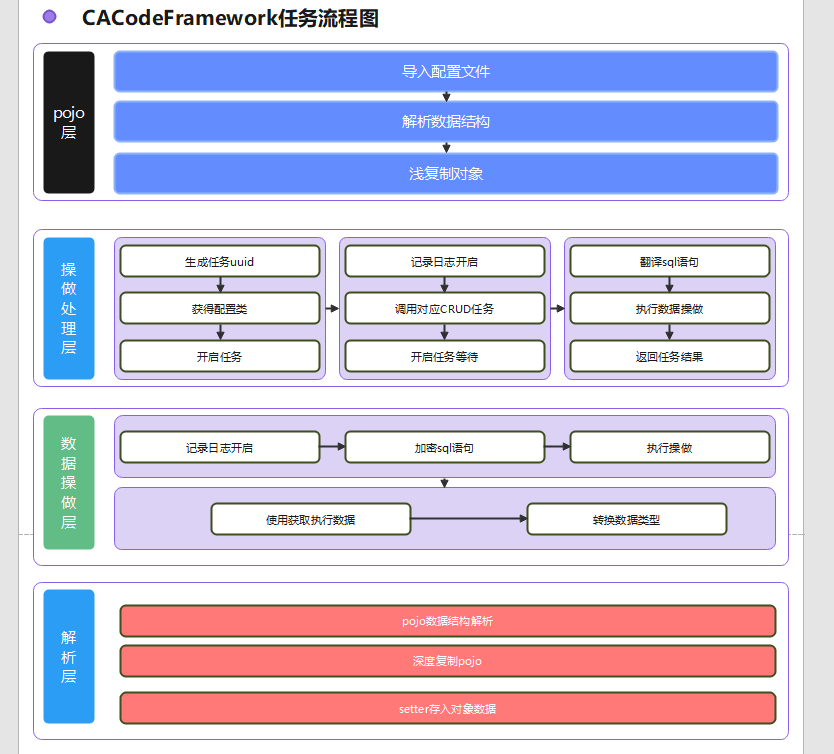
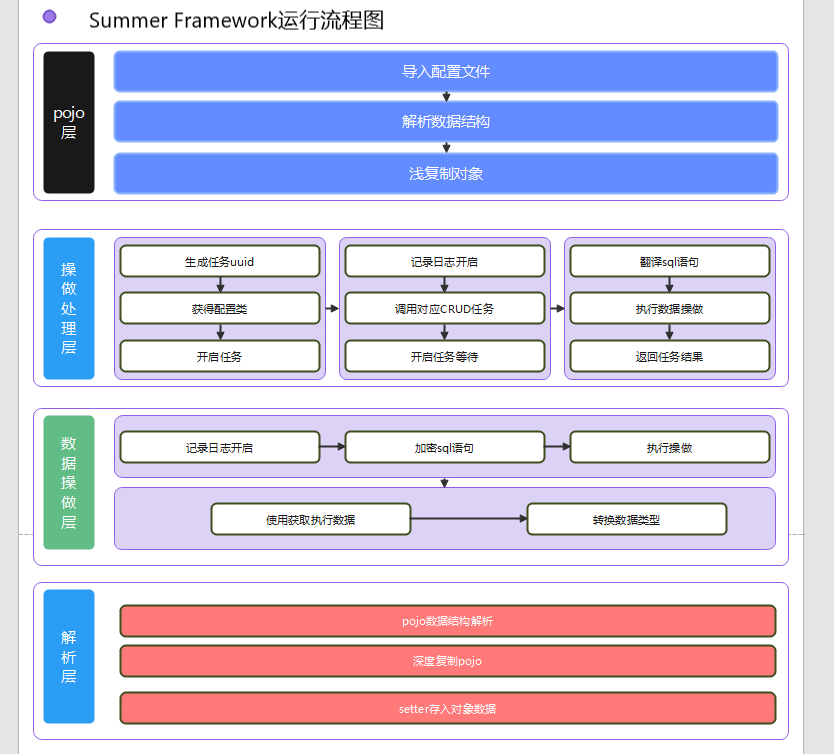
updateRRADME.md

Changed region(s): [[0.0935, 0.0, 0.4676, 0.061]]

diff --git a/README.md b/README.md
@@ -1,25 +1,52 @@
-<h1 align="center">Welcome to CACodeFramework 👋</h1>
-<p>
+<p align="center">
+<img width="50%" src="https://summer-publiced.oss-cn-hangzhou.aliyuncs.com/logos/summer_tr.png"/>
+</p>
+<h1 align="center">Welcome to Summer Framework 👋</h1>
+<p align="center">
   <img alt="Version" src="https://img.shields.io/badge/version-Test--1.0.0-blue" />
   <img src="https://img.shields.io/badge/python-%3E%3D%203.6-blue.svg" />
   <a href="https://github.com/Nirongxu/vue-xuAdmin/blob/master/README.md">
     <img alt="Documentation" src="https://img.shields.io/badge/documentation-yes-brightgreen.svg" target="_blank" />
   </a>
   <a href="https://github.com/Nirongxu/vue-xuAdmin/blob/master/LICENSE">
-    <img alt="License: MIT" src="https://img.shields.io/badge/License-MIT-yellow.svg" target="_blank" />
+    <img alt="License: MIT" src="https://img.shields.io/badge/License-Apache-yellow.svg" target="_blank" />
   </a>
 </p>
 
 # 安装
 
-> pip命令：pip install CACodeFramework
+> pip命令：pip install summer-framework
 
 ## 先决条件
 
-- python >=3.6
-
+> python >=3.6  
+> 基础的sql知识  
 > 教程文档地址：http://doc.cacode.ren
 
-# CACode
+# 它是如何运作的
+
+![](./imgs/lct.png)
+
+# 适用场景
+
+```text
+经过测试，目前稳定运行于Django、Flask、FastApi、web2py。支持非任何架构的原生python，
+可通过任何形式使用。不局限于已创建的对象，可动态加载数据库和数据表
+```
+
+# 优点
+
+```text
+适配市面上所有基于DB-API2规范的数据库创建者,MySql承受100万次插入最快可达19秒。
+内部代码使用中文注释，阅读源码不费力
+```
+
+# 内置
+
+```text
+内置json解析器和数据库连接池，带有缓存机制，能够在极大程度减少对数据库的压力
+```
+
+# CACode Development Team
 
 !['CACode Development Team'](./imgs/icon_dev.png)
